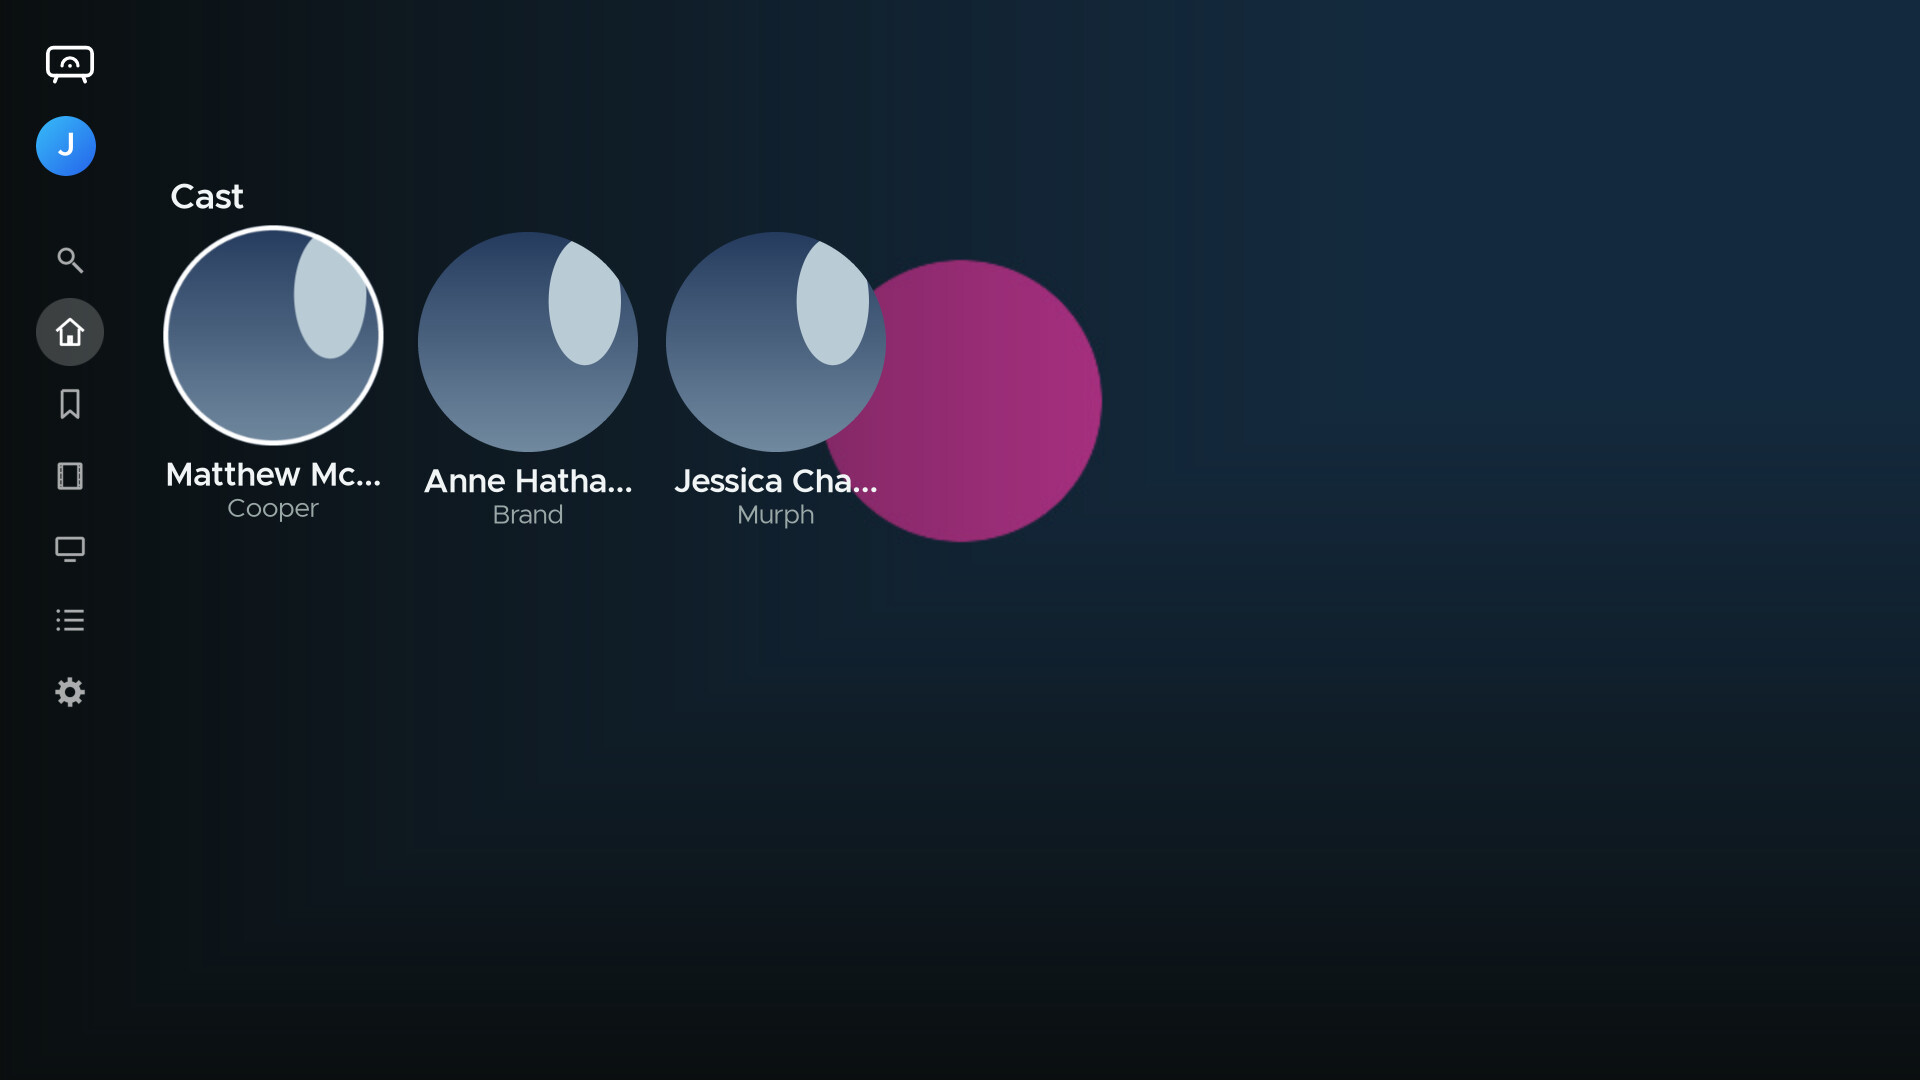
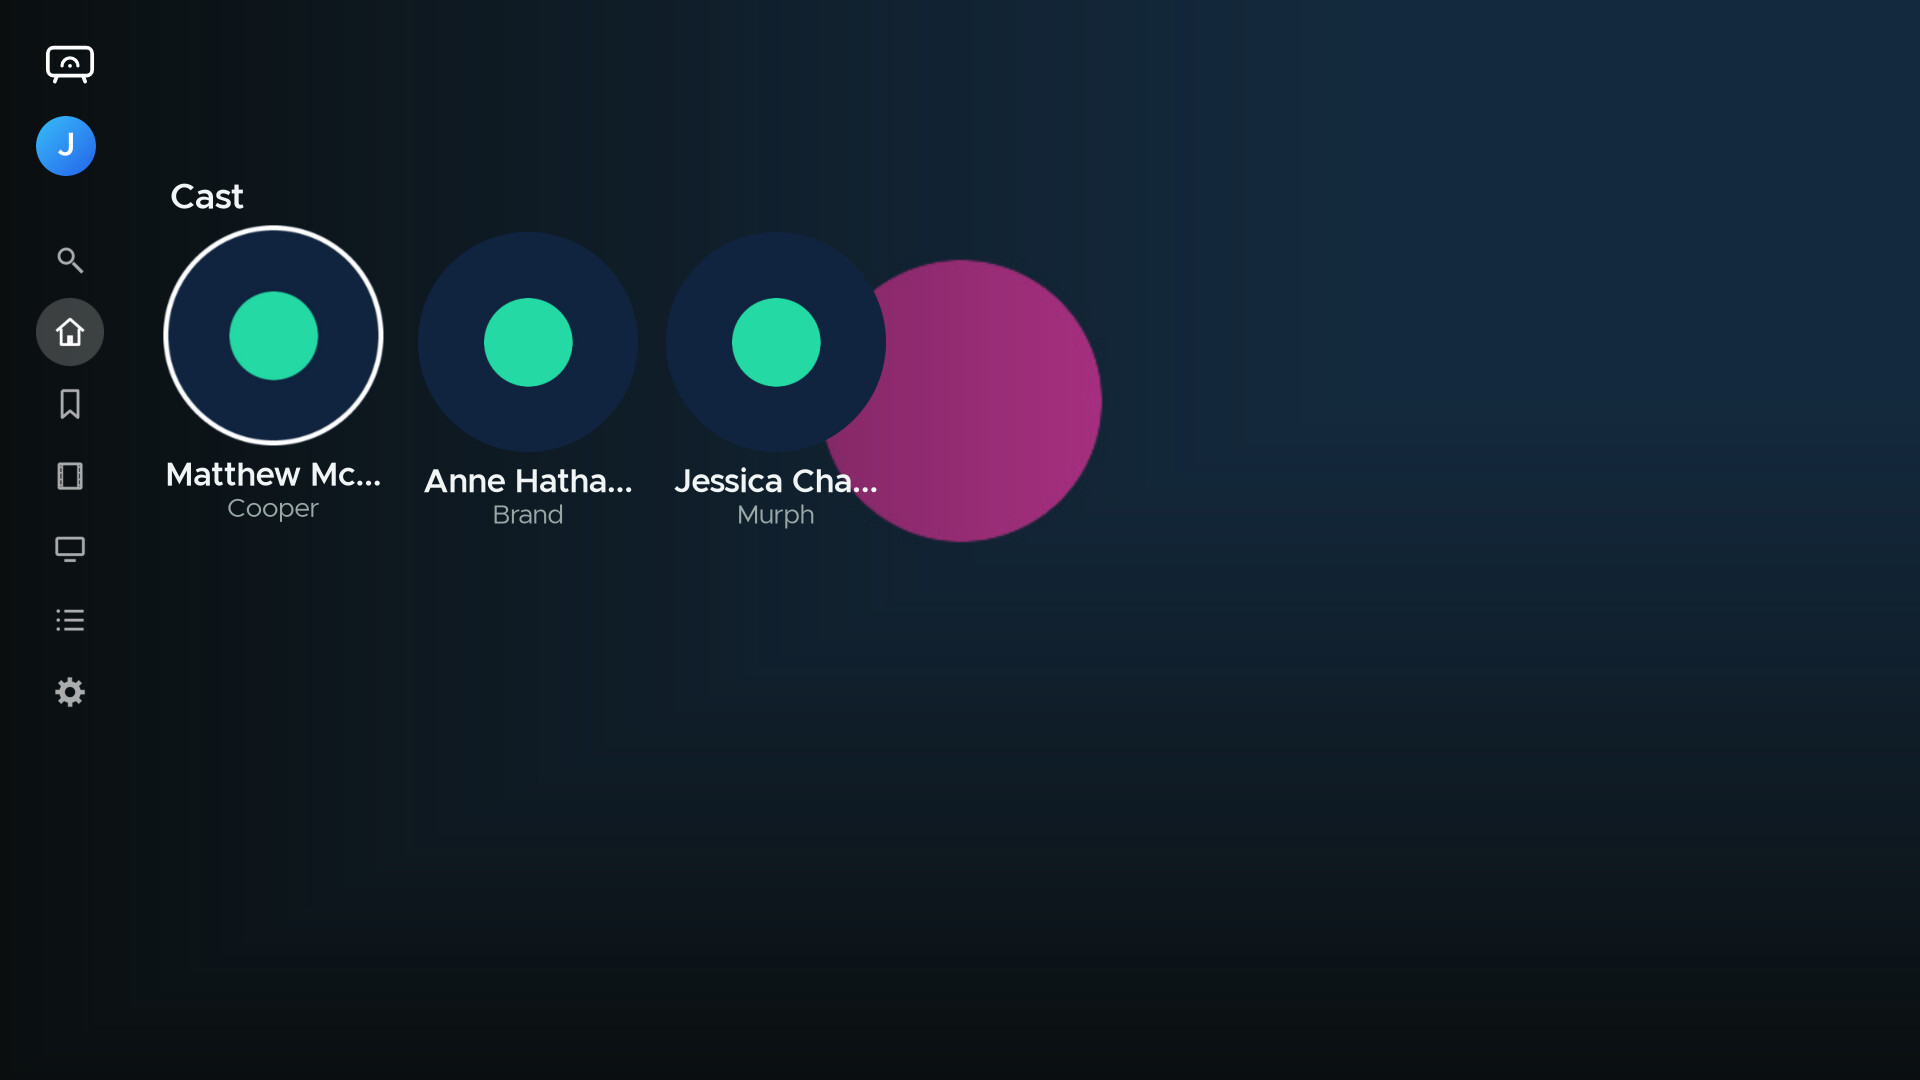
Frame series episodes and preserve cast portraits on Roku
Keep cast beneath the episode view, restore the exact overview position, and crop portraits without stretching.

Changed region(s): [[0.0625, 0.2139, 0.4688, 0.4278]]

diff --git a/docs/changes/2026-11-26-roku-layout-followup.md b/docs/changes/2026-11-26-roku-layout-followup.md
@@ -2,9 +2,11 @@
 
 - Centre the Settings avatar and its initial over the profile name and server.
 - Keep the sidebar’s Arc mark anchored when the rail expands and reveal the lettering beside it.
-- Lower the series overview so the season bar peeks in at the bottom. Down reveals
-  the episode row. Up returns to the overview.
-- Draw the cast focus ring inside the portrait to keep the full circle inside the card slot.
+- Lower the series overview so the season bar is fully visible at the bottom. Down
+  frames the season bar and episodes before revealing cast. Returning Up restores
+  the same overview position.
+- Centre-crop cast portraits without stretching them. Keep the focus ring inside
+  the portrait and bring names into view when the cast shelf takes focus.
 - Preserve the source aspect ratio in the 4:3 Backdrops style, with a centred crop.
 - Start Recommended with its first shelf directly below the library tabs, as on Android TV.
 - On Home, show the hero while browsing Continue Watching. Other shelves, including a
